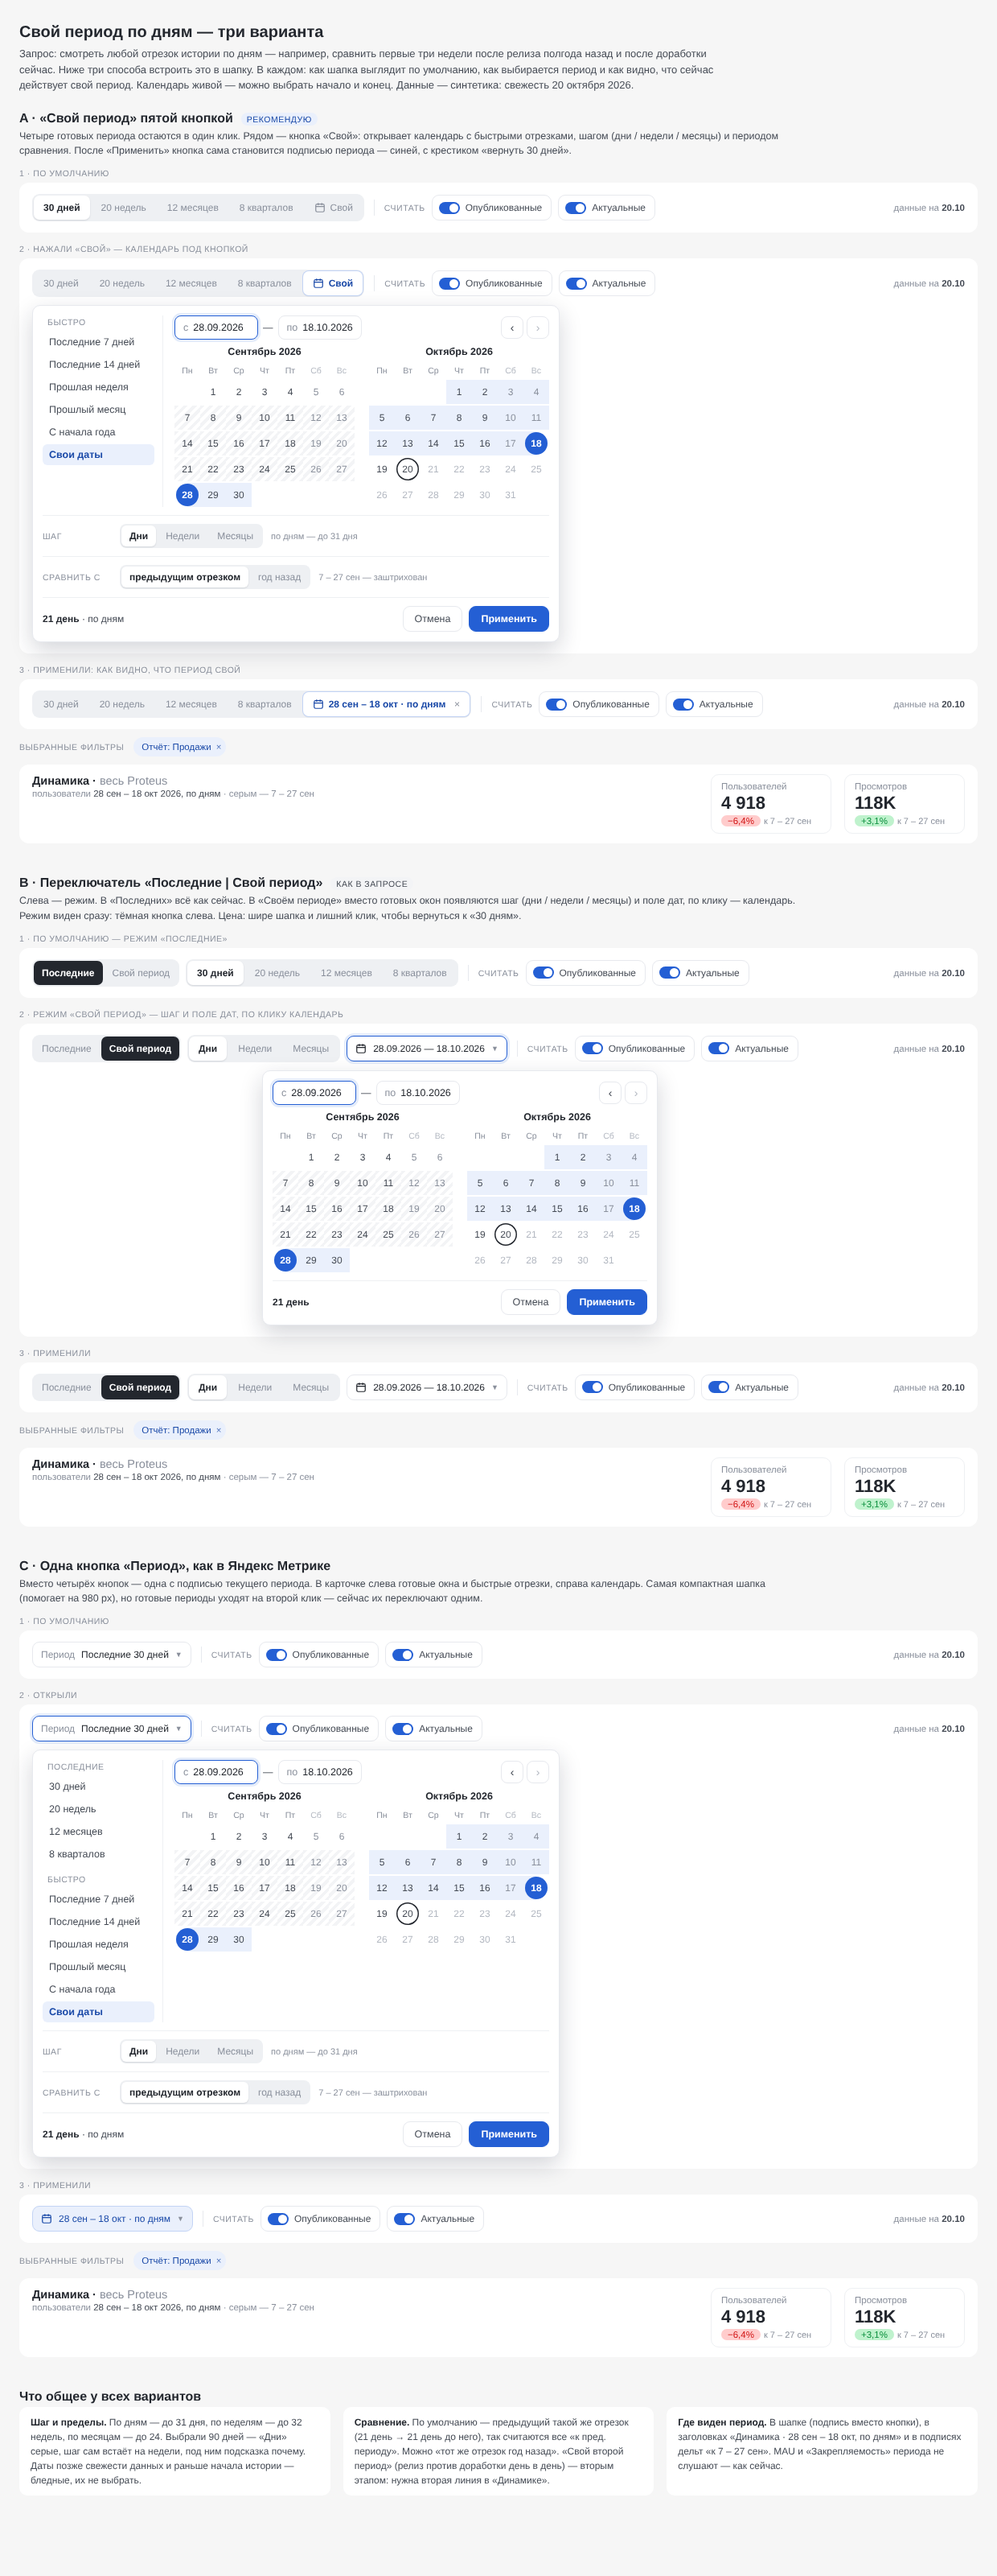
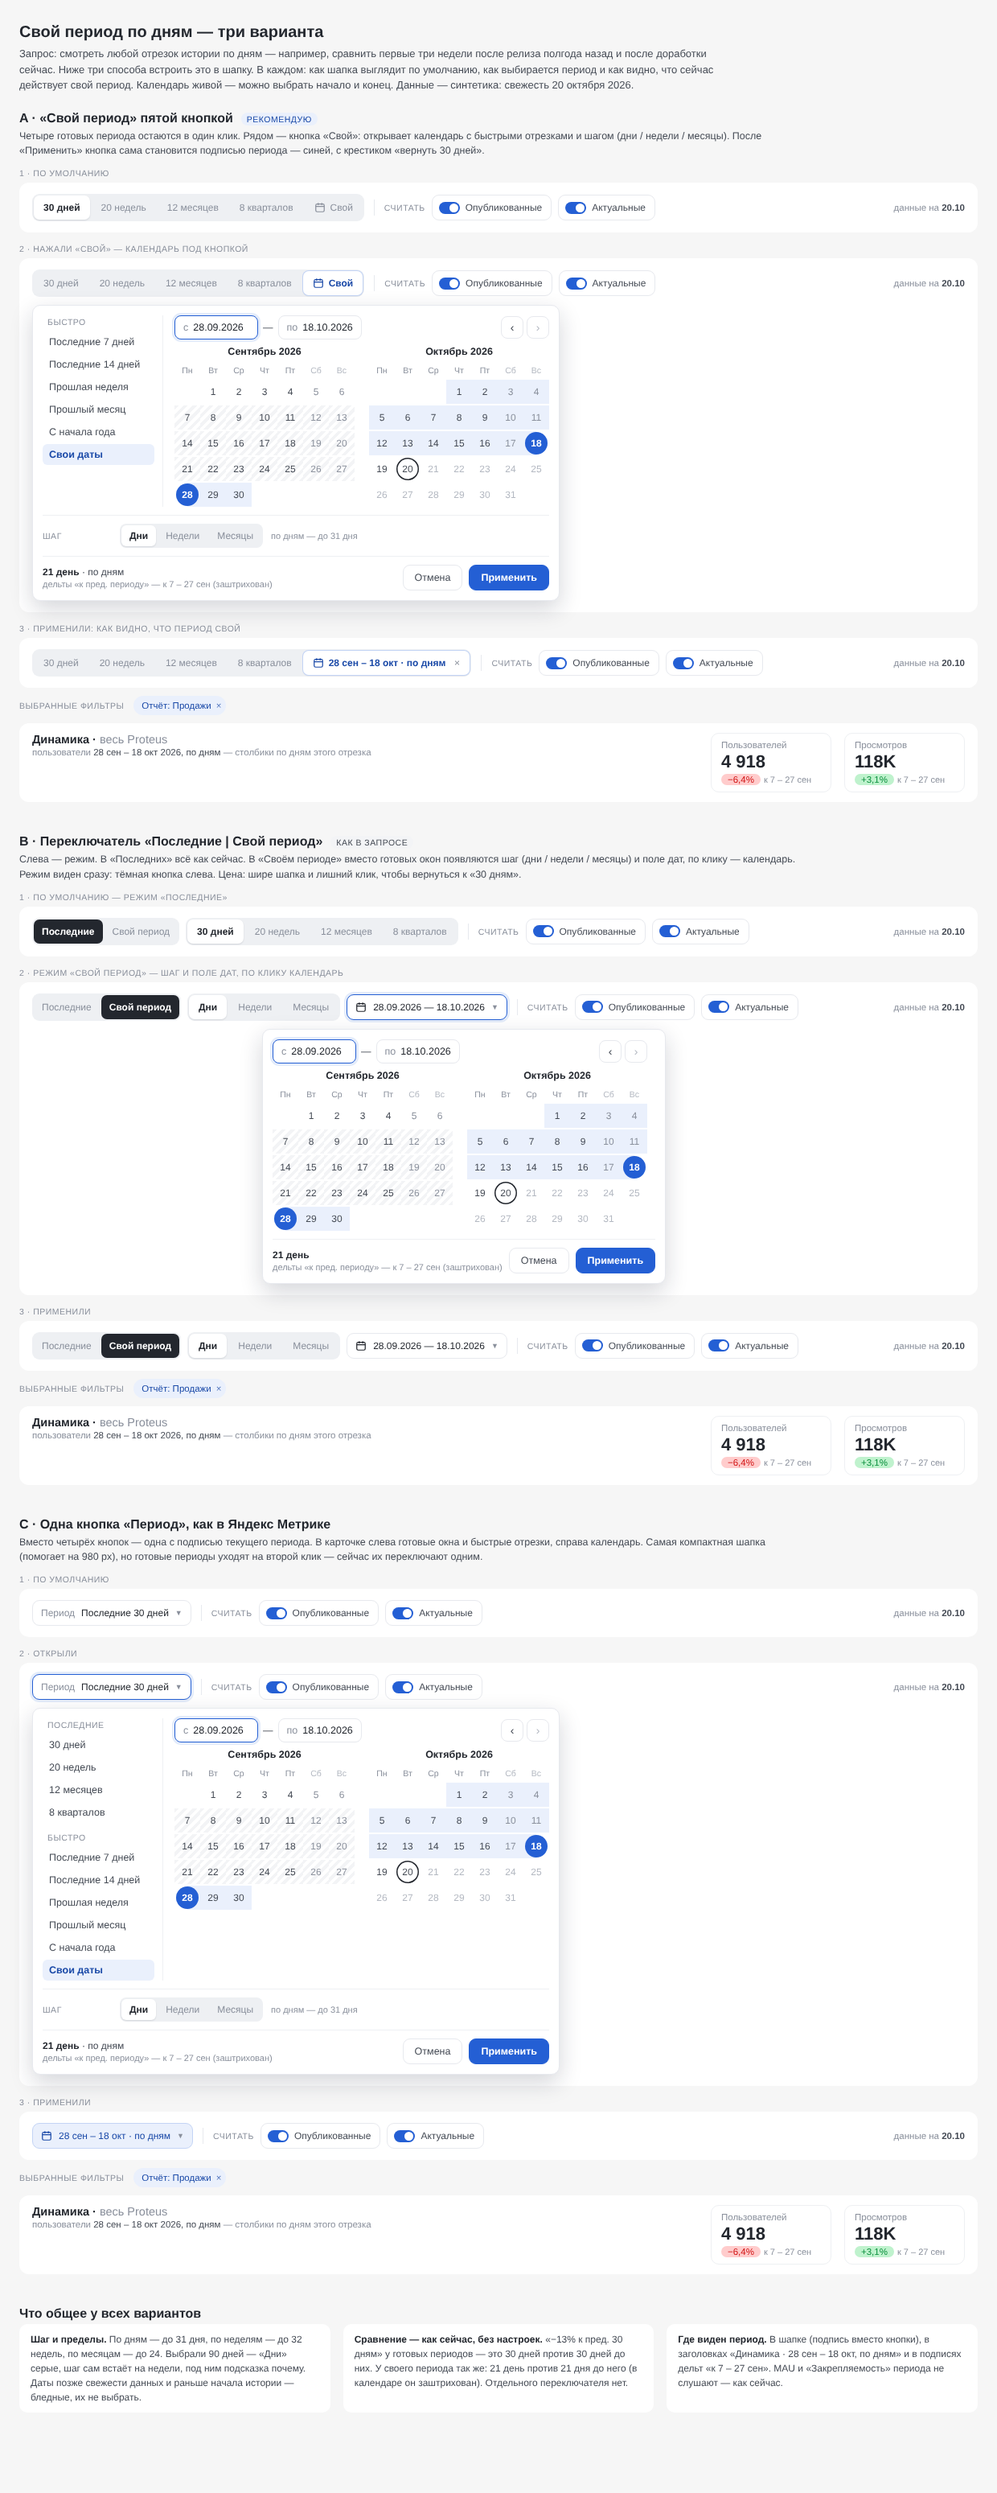
Идеи: свой период — без переключателя сравнения (дельты, как у готовых периодов, к такому же отрезку до)
Claude-Session: https://claude.ai/code/session_01HQ1rguPZa6QG3qqH483x9r

diff --git a/Идеи/Свой период (макет).html b/Идеи/Свой период (макет).html
@@ -139,8 +139,8 @@
   <!-- ═════════════════ ВАРИАНТ A ═════════════════ -->
   <section class="variant">
     <div class="vh"><b>A · «Свой период» пятой кнопкой</b><span class="tag">рекомендую</span></div>
-    <p class="vd">Четыре готовых периода остаются в один клик. Рядом — кнопка «Свой»: открывает календарь с быстрыми отрезками, шагом
-    (дни / недели / месяцы) и периодом сравнения. После «Применить» кнопка сама становится подписью периода — синей, с крестиком «вернуть 30 дней».</p>
+    <p class="vd">Четыре готовых периода остаются в один клик. Рядом — кнопка «Свой»: открывает календарь с быстрыми отрезками и шагом
+    (дни / недели / месяцы). После «Применить» кнопка сама становится подписью периода — синей, с крестиком «вернуть 30 дней».</p>
 
     <div class="scene"><div class="sl">1 · По умолчанию</div>
       <div class="head"><div class="strip" data-strip="A0"></div></div>
@@ -195,8 +195,8 @@
     <div class="pc">
       <div><b>Шаг и пределы.</b> По дням — до 31 дня, по неделям — до 32 недель, по месяцам — до 24. Выбрали 90 дней — «Дни» серые,
       шаг сам встаёт на недели, под ним подсказка почему. Даты позже свежести данных и раньше начала истории — бледные, их не выбрать.</div>
-      <div><b>Сравнение.</b> По умолчанию — предыдущий такой же отрезок (21 день → 21 день до него), так считаются все «к пред. периоду».
-      Можно «тот же отрезок год назад». «Свой второй период» (релиз против доработки день в день) — вторым этапом: нужна вторая линия в «Динамике».</div>
+      <div><b>Сравнение — как сейчас, без настроек.</b> «−13% к пред. 30 дням» у готовых периодов — это 30 дней против 30 дней до них.
+      У своего периода так же: 21 день против 21 дня до него (в календаре он заштрихован). Отдельного переключателя нет.</div>
       <div><b>Где виден период.</b> В шапке (подпись вместо кнопки), в заголовках «Динамика · 28 сен – 18 окт, по дням» и в подписях дельт
       «к 7 – 27 сен». MAU и «Закрепляемость» периода не слушают — как сейчас.</div>
     </div>
@@ -260,7 +260,7 @@
   [].forEach.call(document.querySelectorAll('[data-applied]'), function (el) {
     el.innerHTML = '<div class="ctx"><span class="lbl">Выбранные фильтры</span><span class="chip">Отчёт: Продажи<span class="x">×</span></span></div>' +
       '<div class="panel"><div style="flex:1 1 360px"><div class="pt">Динамика · <span>весь Proteus</span></div>' +
-      '<div class="ps">пользователи <b>' + shortR(A, B) + ' 2026, по дням</b> · серым — ' + shortR(pA, pB) + '</div></div>' +
+      '<div class="ps">пользователи <b>' + shortR(A, B) + ' 2026, по дням</b> — столбики по дням этого отрезка</div></div>' +
       '<div class="kpi"><div class="l">Пользователей</div><div class="v">4 918</div><div class="kd"><span class="pill">−6,4%</span>к ' + shortR(pA, pB) + '</div></div>' +
       '<div class="kpi"><div class="l">Просмотров</div><div class="v">118K</div><div class="kd"><span class="pill g">+3,1%</span>к ' + shortR(pA, pB) + '</div></div></div>';
   });
@@ -268,7 +268,7 @@
   // ── Календарь диапазона ──
   function Cal(host) {
     var mode = host.getAttribute('data-mode'), grains = host.getAttribute('data-grains');
-    var s = { a: A, b: B, pick: 0, view: new Date(B.getFullYear(), B.getMonth() - 1, 1), step: 'd', cmp: 'prev', pre: 'own' };
+    var s = { a: A, b: B, pick: 0, view: new Date(B.getFullYear(), B.getMonth() - 1, 1), step: 'd', pre: 'own' };
     host.className = 'dd';
     function stepOk(st) { return days(s.a, s.b) <= LIM[st]; }
     function fixStep() { if (!stepOk(s.step)) s.step = stepOk('w') ? 'w' : 'm'; }
@@ -287,7 +287,7 @@
           if (+t === +s.a) c += ' s';
           if (+t === +s.b) c += ' e';
           if (t > s.a && t < s.b) c += ' in';
-          if (s.cmp === 'prev' && !s.pick && t >= pa && t <= pb) c += ' cmpin';
+          if (!s.pick && t >= pa && t <= pb) c += ' cmpin';
           if (+t === +MD) c += ' md';
         }
         h += '<div class="' + c + '" data-t="' + (+t) + '" title="' + (off2 ? (t > MD ? 'данных ещё нет' : 'раньше начала истории') : '') + '"><span>' + d + '</span></div>';
@@ -312,17 +312,15 @@
       if (mode === 'full') {
         h += '<div class="opt"><span class="lbl">Шаг</span><span class="mini">' +
           [['d', 'Дни'], ['w', 'Недели'], ['m', 'Месяцы']].map(function (g) { return '<button data-step="' + g[0] + '"' + (stepOk(g[0]) ? '' : ' disabled') + ' class="' + (s.step === g[0] ? 'on' : '') + '">' + g[1] + '</button>'; }).join('') +
-          '</span><span class="hint">' + (stepOk('d') ? 'по дням — до 31 дня' : 'больше 31 дня — по неделям') + '</span></div>' +
-          '<div class="opt"><span class="lbl">Сравнить с</span><span class="mini">' +
-          '<button data-cmp="prev" class="' + (s.cmp === 'prev' ? 'on' : '') + '">предыдущим отрезком</button><button data-cmp="yr" class="' + (s.cmp === 'yr' ? 'on' : '') + '">год назад</button>' +
-          '</span><span class="hint">' + (s.cmp === 'prev' ? shortR(pa, pb) + ' — заштрихован' : shortR(new Date(s.a.getFullYear() - 1, s.a.getMonth(), s.a.getDate()), new Date(s.b.getFullYear() - 1, s.b.getMonth(), s.b.getDate()))) + '</span></div>';
+          '</span><span class="hint">' + (stepOk('d') ? 'по дням — до 31 дня' : 'больше 31 дня — по неделям') + '</span></div>';
       }
-      h += '<div class="foot"><span class="sum"><b>' + plural(n, 'день', 'дня', 'дней') + '</b>' + (mode === 'full' ? ' · по ' + ({ d: 'дням', w: 'неделям', m: 'месяцам' })[s.step] : '') + '</span>' +
+      h += '<div class="foot"><span class="sum"><b>' + plural(n, 'день', 'дня', 'дней') + '</b>' + (mode === 'full' ? ' · по ' + ({ d: 'дням', w: 'неделям', m: 'месяцам' })[s.step] : '') +
+        '<span class="hint" style="display:block;margin-top:2px">дельты «к пред. периоду» — к ' + shortR(pa, pb) + ' (заштрихован)</span></span>' +
         '<button class="btn ml">Отмена</button><button class="btn pr">Применить</button></div>';
       host.innerHTML = h;
     }
     host.addEventListener('click', function (e) {
-      var t = e.target.closest('[data-t]'), nv = e.target.closest('[data-nav]'), st = e.target.closest('[data-step]'), cm = e.target.closest('[data-cmp]'), pr = e.target.closest('[data-pre]');
+      var t = e.target.closest('[data-t]'), nv = e.target.closest('[data-nav]'), st = e.target.closest('[data-step]'), pr = e.target.closest('[data-pre]');
       if (t && !t.classList.contains('off')) {
         var d = new Date(+t.getAttribute('data-t'));
         if (s.pick === 0) { s.a = d; s.b = d; s.pick = 1; }
@@ -331,7 +329,6 @@
       } else if (nv && !nv.disabled) {
         s.view = new Date(s.view.getFullYear(), s.view.getMonth() + (+nv.getAttribute('data-nav')), 1);
       } else if (st && !st.disabled) s.step = st.getAttribute('data-step');
-      else if (cm) s.cmp = cm.getAttribute('data-cmp');
       else if (pr) {
         var p = pr.getAttribute('data-pre'); s.pre = p; s.pick = 0;
         if (p === '7') { s.b = MD; s.a = add(MD, -6); }
